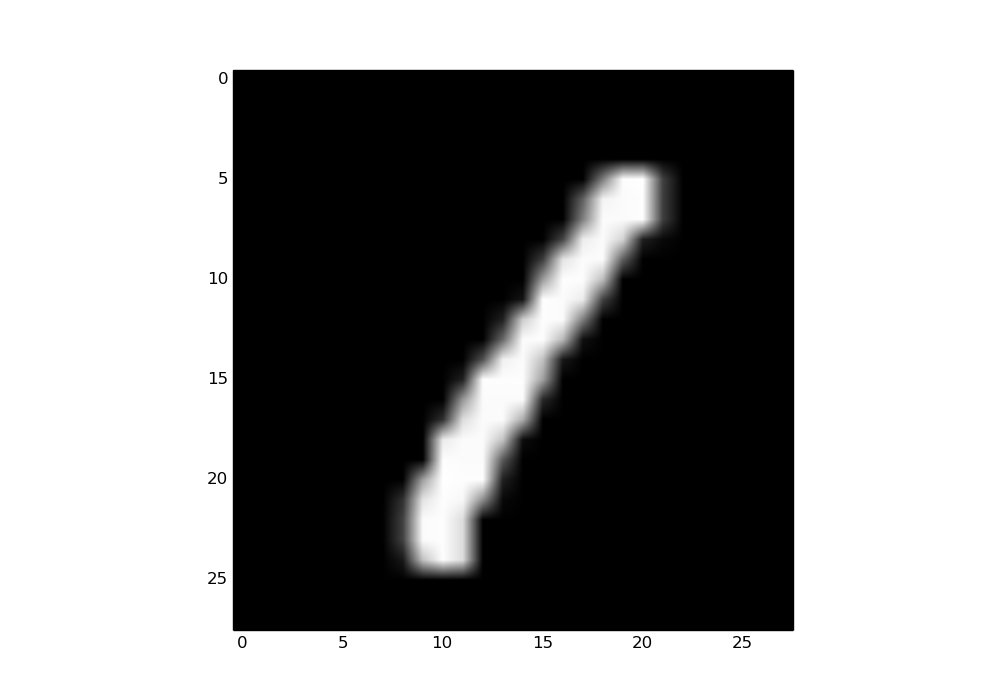
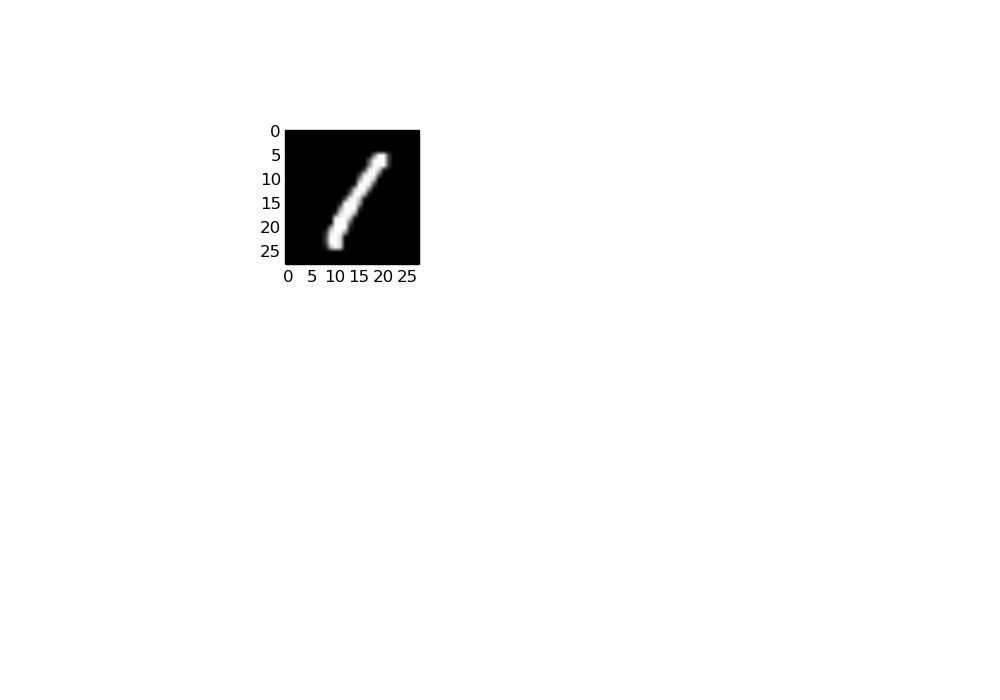
m

diff --git a/supervised_learning/0x04-classification/2-logistic_reg_classifier.py b/supervised_learning/0x04-classification/2-logistic_reg_classifier.py
@@ -62,6 +62,7 @@ labels_0_1_test = labels_test[samples_0_1_test]
 sample_0 = np.where((labels == 0))[0][0]
 sample_1 = np.where((labels == 1))[0][0]
 plt.figure(figsize=(10, 7))
+plt.subplot(2, 5, 1 + 1)
 plt.imshow(img[sample_0], cmap='gray')
 plt.imshow(img[sample_1], cmap='gray')
 plt.savefig('1_0_images.png')
